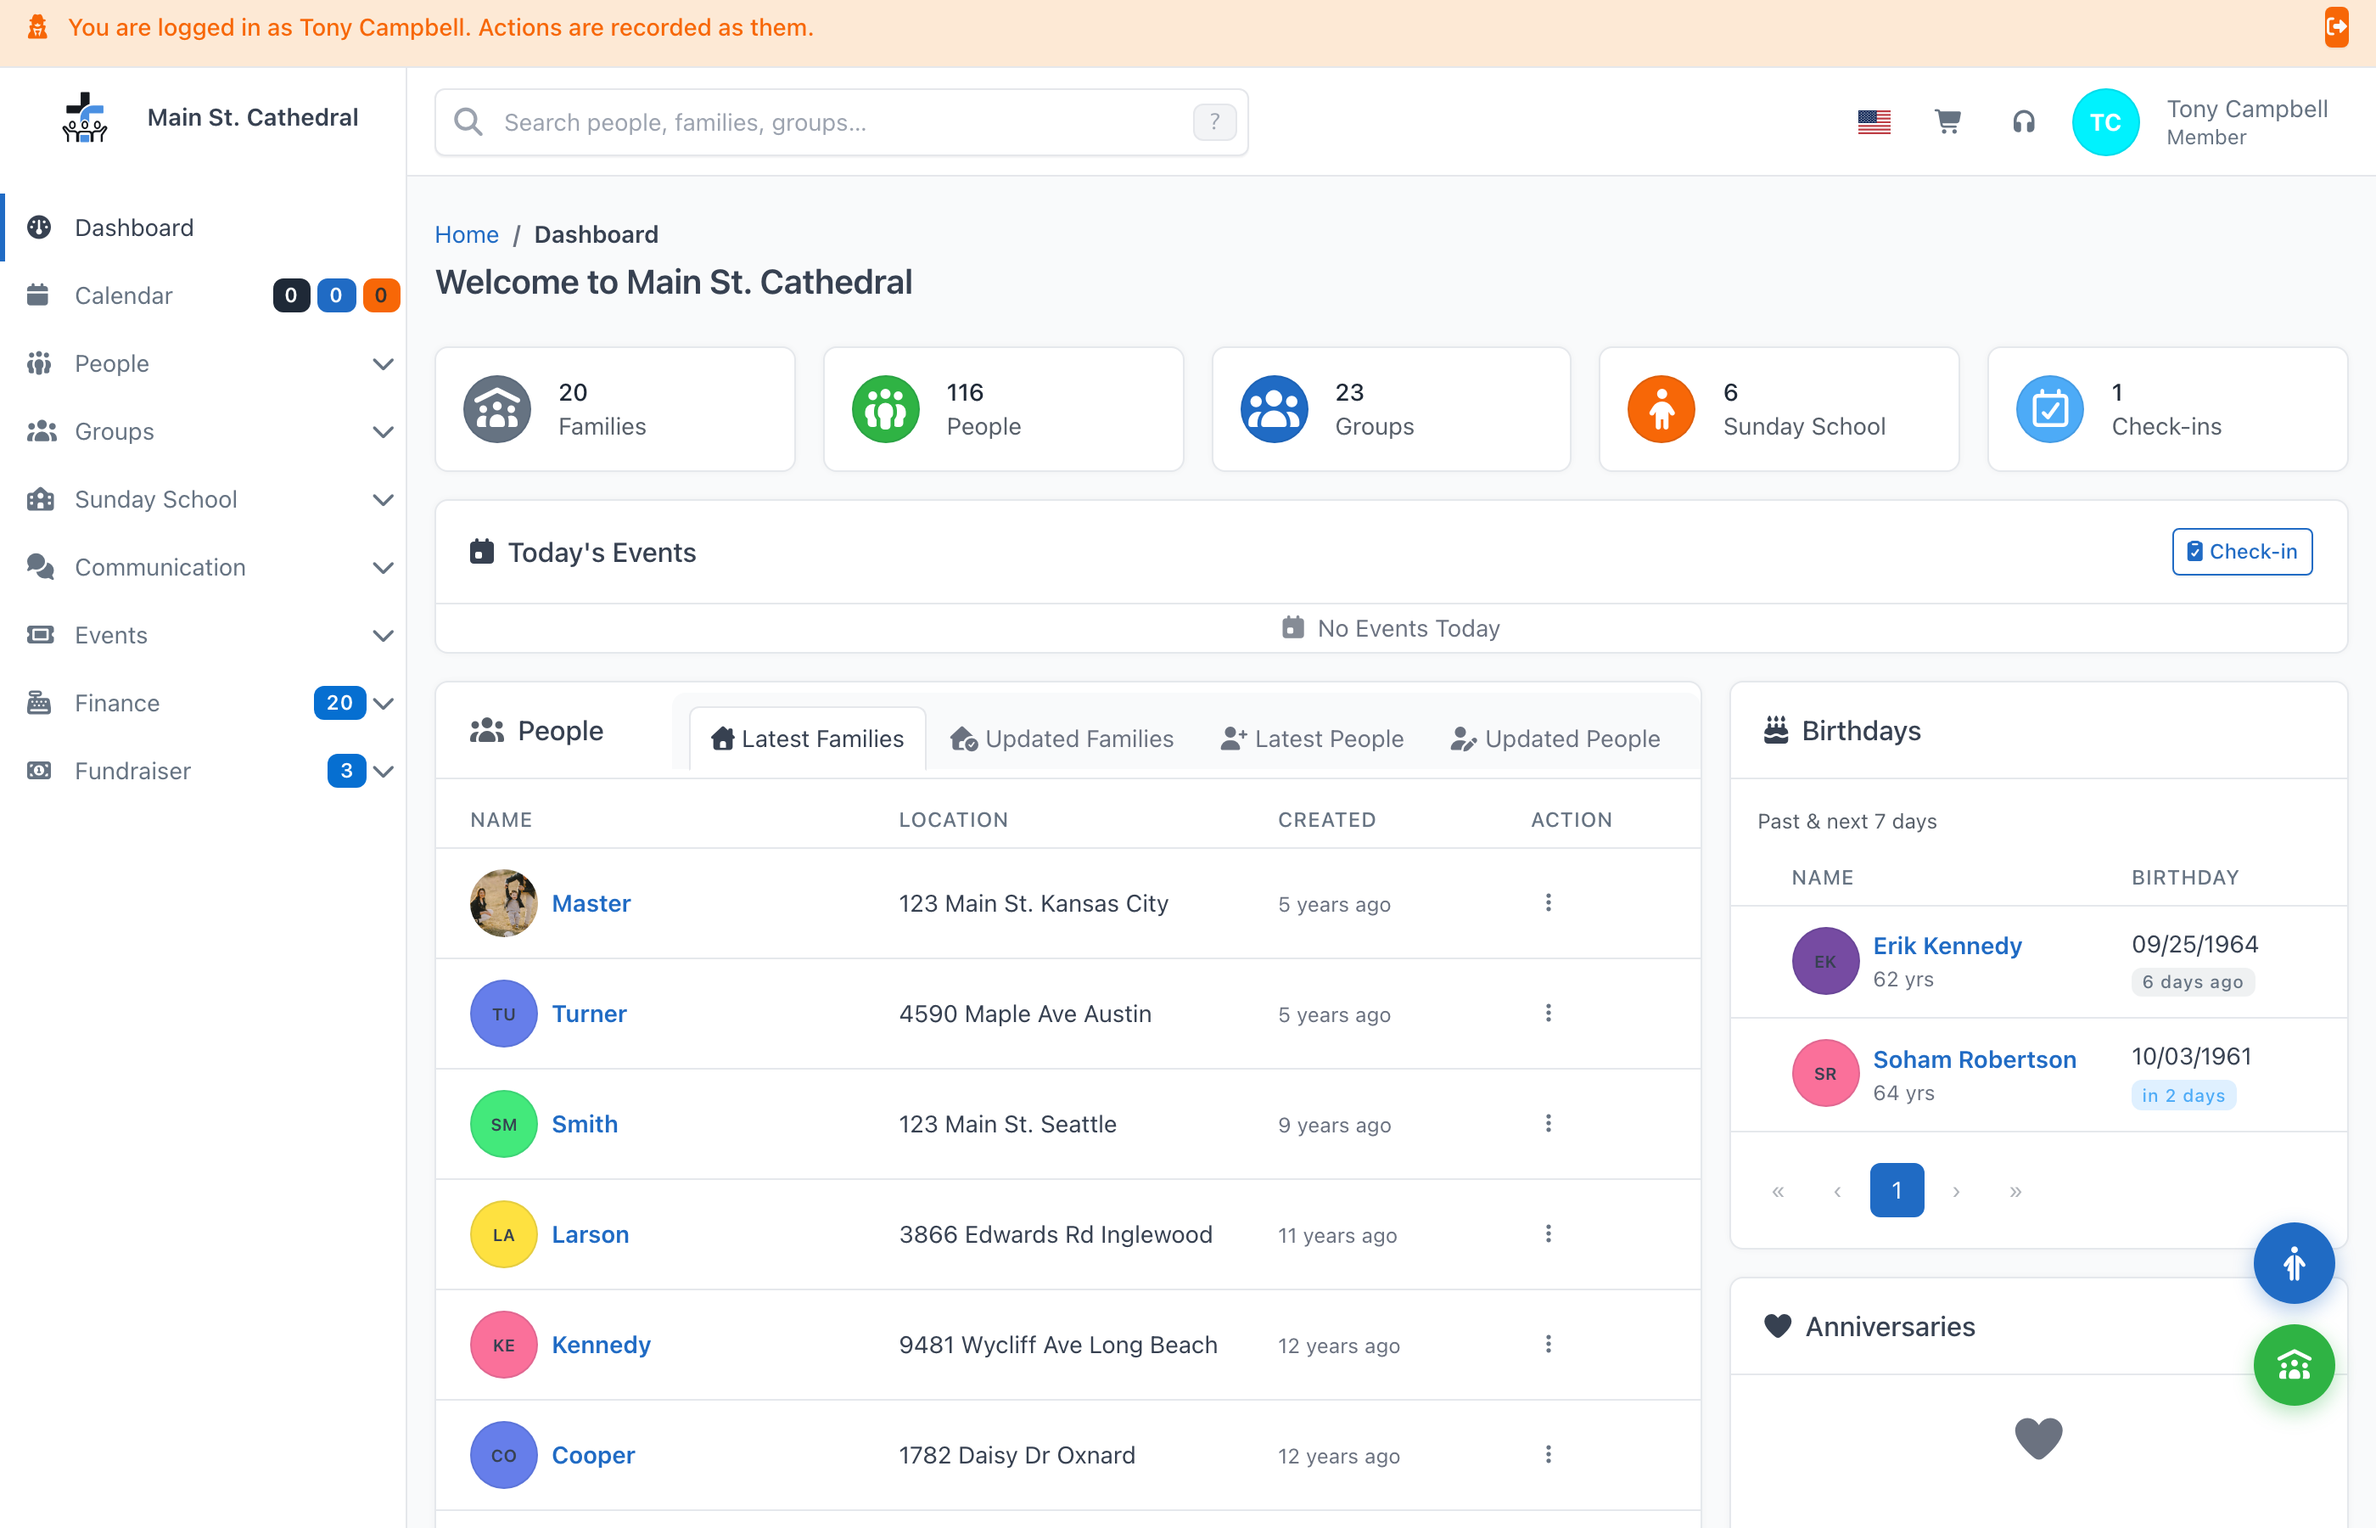
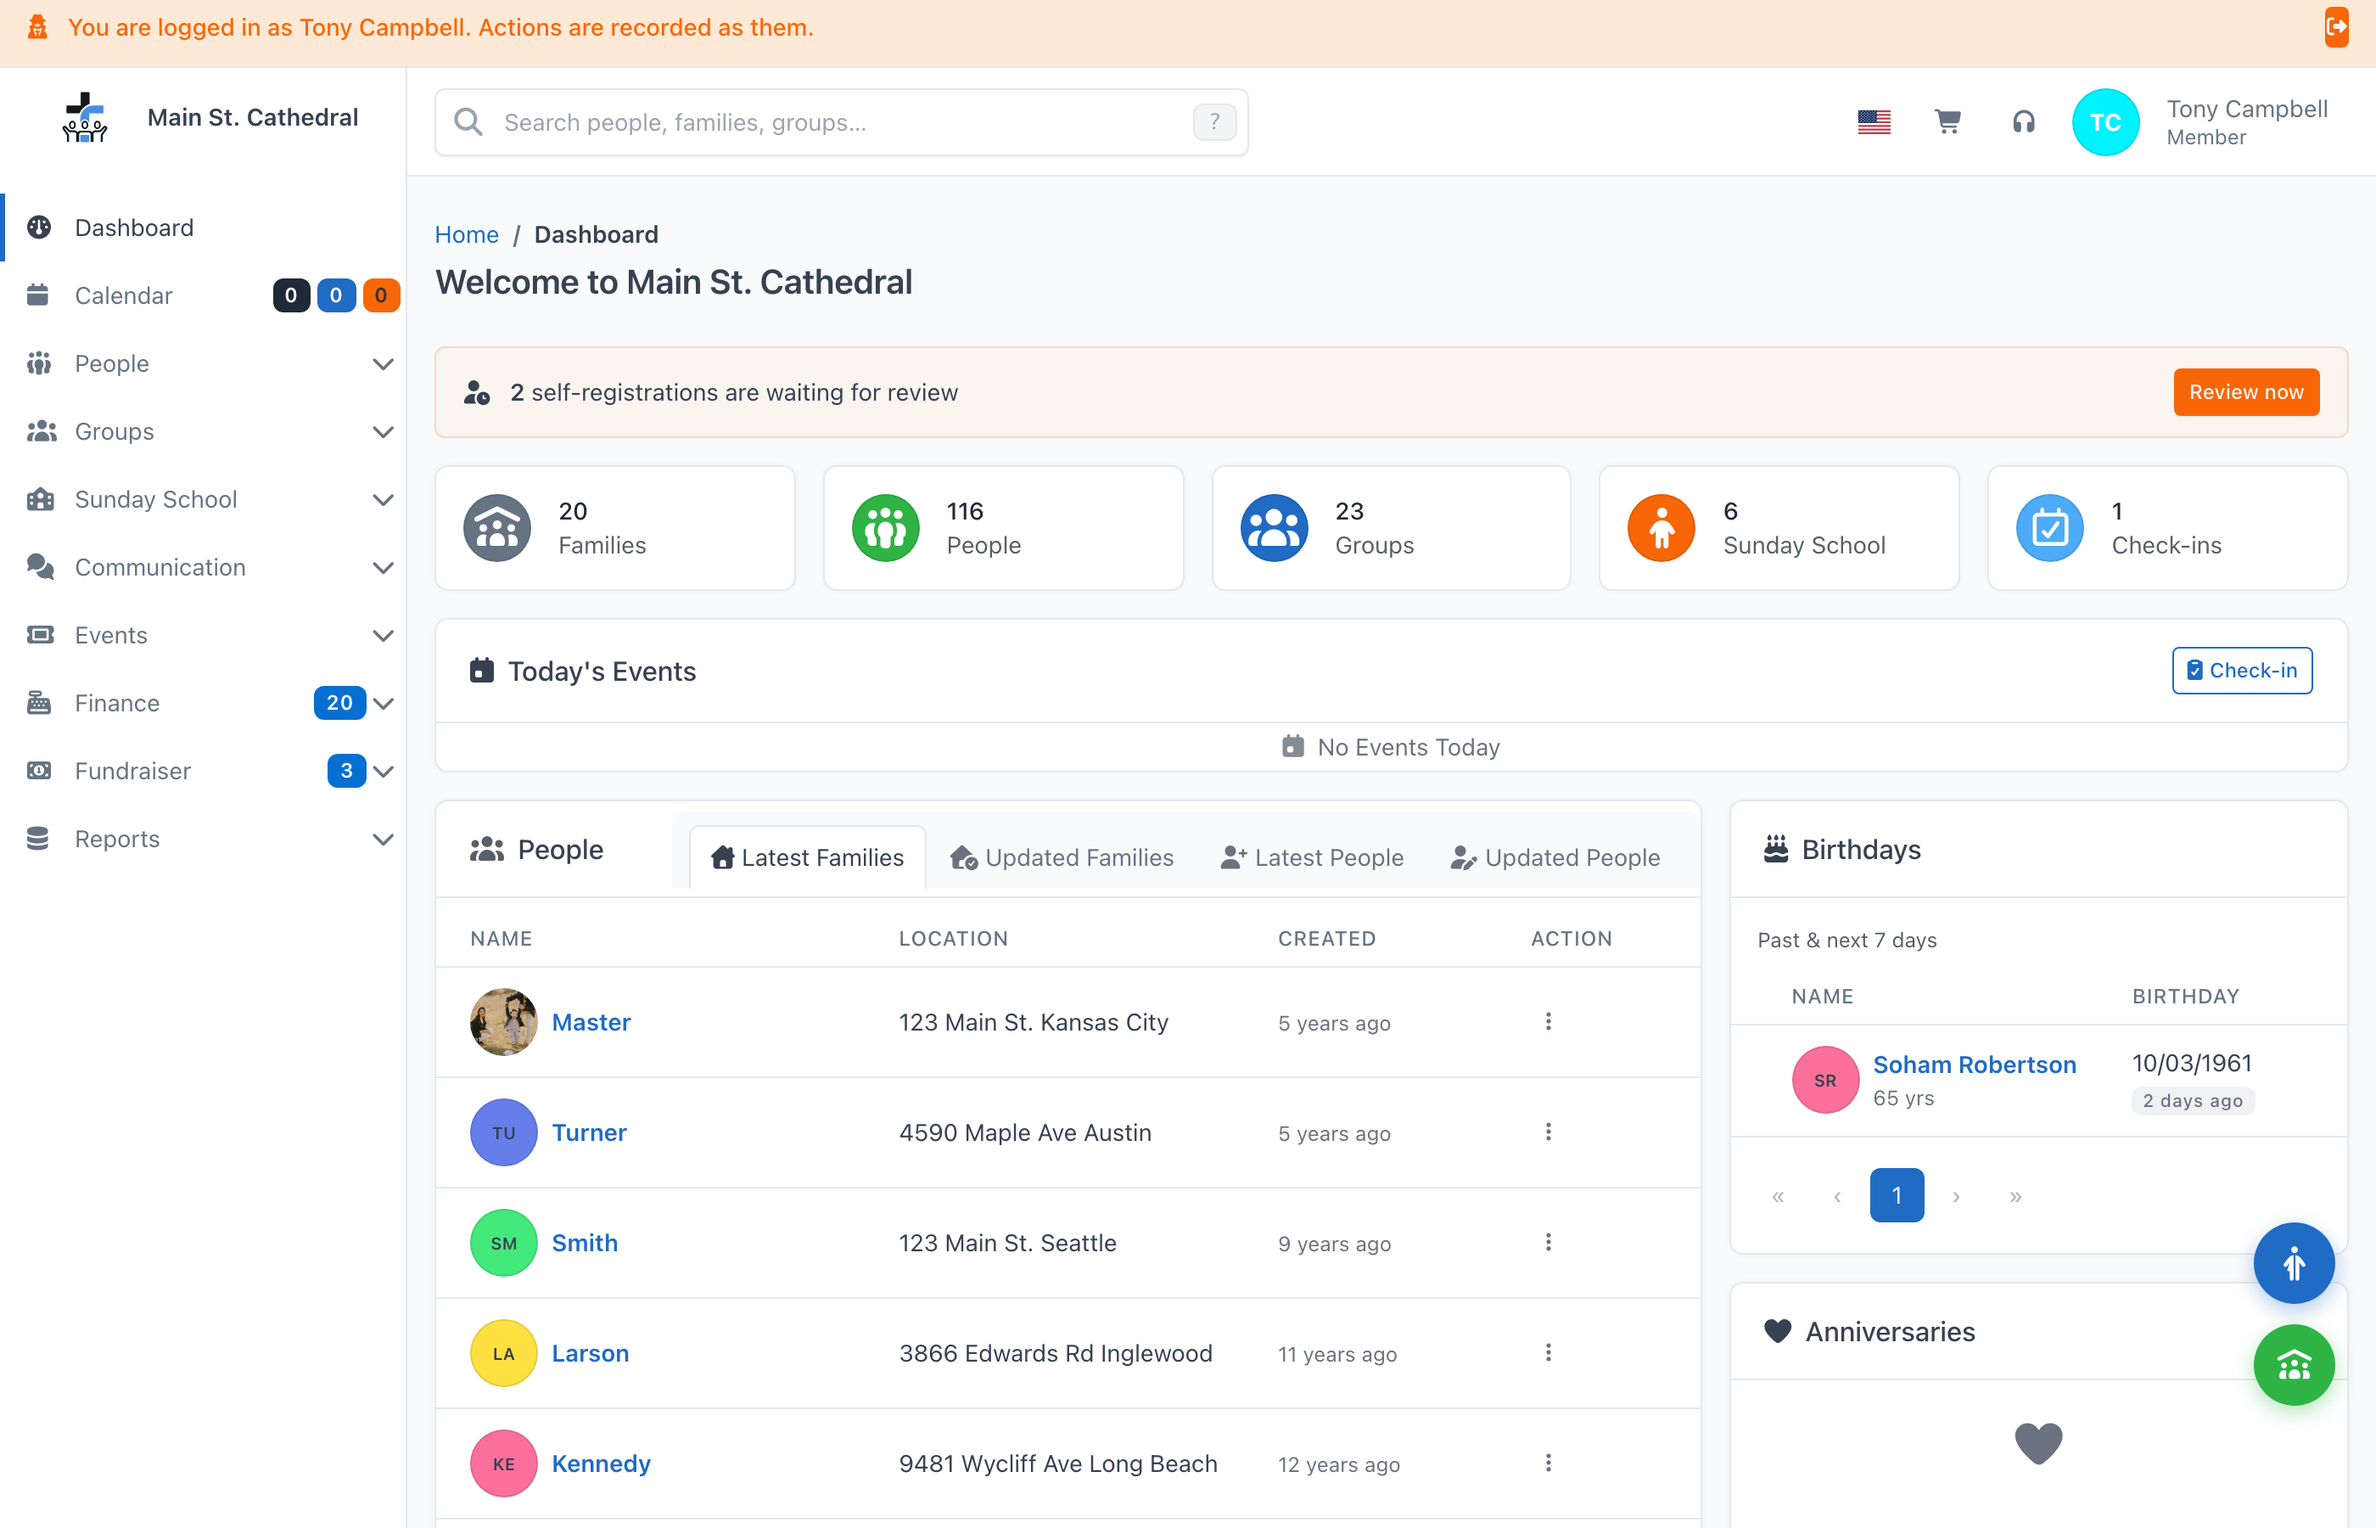
docs(users): align Login as User with the 7.8.0 release code
The feature now ships with ChurchCRM/CRM#10246 (the 7.8.0 release PR)
instead of the closed #9844, on top of current master.

- The user list is Admin -> System Users, not Edit Users.
- The first Settings tab is named after the user ("Tony's Account").
- Describe the confirmation dialog as it is: title and button
  "Login as User", question "Log in as (name)? ...".
- A self-service (Edit Self only) user now lands on the Member Portal,
  where the banner also shows; the way out there is "Exit to your
  account" in the portal's "Hello (name)" menu, which replaces
  "Sign out" (no Admin Console entry). The old limited-access page and
  its Log Out button are gone.
- Quote the "Masquerade ended" auth-log line too and note the lines are
  written at the INFO log level (the default).
- Retake both screenshots: the sidebar's Data/Reports menu is now
  Reports (#10280).

diff --git a/docs/administration/users.md b/docs/administration/users.md
@@ -40,14 +40,14 @@ An administrator can open a session as another user and see ChurchCRM exactly as
 
 ### Starting a masquerade
 
-1. Open the **Admin** menu and click **Edit Users**, or navigate to `/admin/system/users`.
-2. Click the user you want to log in as. Their **Settings** page opens on the **Account** tab.
-3. At the bottom of the **Account** tab, click **Login as User** (next to **Advanced Settings**).
-4. Confirm **Log in as (name)?** in the dialog.
+1. Open the **Admin** menu and click **System Users**, or navigate to `/admin/system/users`.
+2. Click the name of the user you want to log in as. Their **Settings** page opens on the account tab, which is named after them (for example **Tony's Account**).
+3. At the bottom of that tab, click **Login as User** (next to **Advanced Settings**).
+4. The **Login as User** dialog asks **Log in as (name)?** Click **Login as User** to confirm.
 
 ![Login as User button on a user's Settings page](/img/administration/login-as-user-button.png)
 
-You land on the dashboard as that user. Every page now shows an orange banner across the top: **You are logged in as (name). Actions are recorded as them.**
+You land on the dashboard as that user. A self-service user (one with only the **Edit Self** right) lands on the Member Portal instead, because that is the only part of ChurchCRM they can use. Every page, Member Portal pages included, now shows an orange banner across the top: **You are logged in as (name). Actions are recorded as them.**
 
 ![The masquerade banner shown on every page](/img/administration/login-as-user-banner.png)
 
@@ -66,7 +66,7 @@ Do any of the following:
 
 - Click the exit icon at the right end of the banner (**Exit and return to your own account**).
 - Open the user menu in the top navbar and click **Exit to your account**. While you are masquerading this item replaces **Sign out**, so you cannot accidentally end your own session instead.
-- On the limited-access page of a user with only the **Edit Self** right, click **Exit to your account**. While you are masquerading it replaces that page's **Log Out** button.
+- In the Member Portal, open the **Hello (name)** menu at the top right and click **Exit to your account**. While you are masquerading this item replaces the portal's **Sign out**.
 
 You are returned to your own account, on the Settings page of the user you were logged in as. If your own administrator account has been deleted or has lost its administrator right in the meantime, the session ends instead and you are taken to the login page.
 
@@ -83,14 +83,14 @@ Nothing. A masquerade is not a login for that user:
 - Their password is not checked and their two-factor authentication is not prompted for.
 - Their **Last login** date and login counts are not updated.
 - If they must change their password at next login, or must still enroll in two-factor authentication, that requirement is not applied to you and is not cleared — it still applies the next time they sign in themselves.
-- A user with only the **Edit Self** right is taken to their limited-access page, with the banner on it, exactly as they would be. The only difference is the page's **Log Out** button, which reads **Exit to your account** and returns you to your own account.
+- A self-service user is taken to the Member Portal, with the banner on it, exactly as they would be. The differences are in the **Hello (name)** menu: **Sign out** reads **Exit to your account** and returns you to your own account, and there is no **Admin Console** entry.
 - A deceased or inactive user's sign-in block stays in place: the masquerade does not let them sign in.
 
 :::warning
 While you are masquerading, anything you save is recorded under the other user's name — edits, notes, deposits, sent email. Look; do not change things you would not change while logged in as them.
 :::
 
-Both the start and the end of every masquerade are written to the authentication log with both user IDs (`Masquerade started: admin 1 (…) as user 3 (…)`), so it is always possible to tell who really performed an action. See [Logging and Diagnostics](./logging-and-diagnostics.md) for where the `yyyy-mm-dd-auth.log` file lives.
+Both the start and the end of every masquerade are written to the authentication log with both user IDs (`Masquerade started: admin 1 (…) as user 3 (…)` and `Masquerade ended: admin 1 back from user 3`), so it is always possible to tell who really performed an action. These lines are written at the **INFO** log level, the default; raising the log level to **WARNING** or higher leaves them out. See [Logging and Diagnostics](./logging-and-diagnostics.md) for where the `yyyy-mm-dd-auth.log` file lives and how to change the log level.
 
 ## What is the default password assigned to new Users?
 
